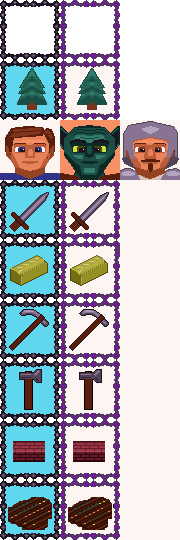
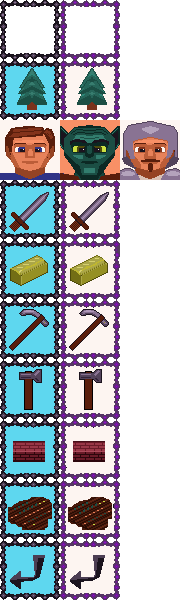
WIP on User Interface

diff --git a/js/userInterface.js b/js/userInterface.js
@@ -5,6 +5,7 @@ var goldX = 10, goldY = 380;
 var farmX = 10, farmY = 480;
 var wallX = 10, wallY = 120;
 var farmBuildX = 10, farmBuildY = 200;
+var peasantMainMenuX = 10, peasantMainMenuY = 300;
 var pictureWidth = 60, pictureHeight = 60;
 
 var peasantSelected = false, warriorSelected = false;
@@ -17,6 +18,7 @@ var goldButtonHovering = false, goldButtonSelected = false;
 var buildWallHovering = false, buildWallSelected = false;
 var farmBuildHovering = false, farmBuildSelected = false;
 var farmButtonHovering = false, farmButtonSelected = false;
+var peasantReturnMenuHovering = false, peasantReturnMenuSelected = false;
 
 var buttonDelayTicks = 10, buttonDelayTimer = false, startDelayTimer = false;
 var showWallToBuild = false, showFarmToBuild = false;
@@ -46,6 +48,7 @@ function lumberAction() {
     selectedUnits[i].actionSx = 0;
     selectedUnits[i].showAction = true;
   }
+  selectedUnits = [];
 }
 
 function attackAction() {
@@ -53,6 +56,7 @@ function attackAction() {
     selectedUnits[i].actionSx = 15 * 1;
     selectedUnits[i].showAction = true;
   }
+  selectedUnits = [];
 }
 
 function goldAction() {
@@ -62,6 +66,8 @@ function goldAction() {
     selectedUnits[i].actionSx = 15 * 2;
     selectedUnits[i].showAction = true;
   }
+  selectedUnits = [];
+
 }
 
 function farmAction() {
@@ -71,6 +77,7 @@ function farmAction() {
     selectedUnits[i].actionSx = 15 * 3;
     selectedUnits[i].showAction = true;
   }
+  selectedUnits = [];
 }
 
 // Construction-related actions
@@ -107,6 +114,13 @@ function placeFarm() {
   }
 }
 
+function returnToPeasantMainMenu(){
+  if(peasantSelected && peasantReturnMenuSelected){
+    peasantConstructionMenu = false;
+    peasantMainMenu = true;
+  }
+}
+
 function checkButtonHandling(){
   if (peasantSelected && peasantMainMenu) {
     lumberButtonHovering = checkMouseInsideBox(lumberX, lumberY, pictureWidth, pictureHeight);
@@ -121,6 +135,17 @@ function checkButtonHandling(){
     handleButtonClick(mouseClicked, farmButtonHovering, farmButtonSelected, farmAction);
     handleButtonClick(mouseClicked, constructionButtonHovering, constructionButtonSelected, constructionAction);
   }
+
+  if (peasantSelected && peasantConstructionMenu) {
+    buildWallHovering = checkMouseInsideBox(wallX, wallY, pictureWidth, pictureHeight);
+    farmBuildHovering = checkMouseInsideBox(farmBuildX, farmBuildY, pictureWidth, pictureHeight);
+    peasantReturnMenuHovering = checkMouseInsideBox(peasantMainMenuX, peasantMainMenuY, pictureWidth, pictureHeight);
+
+    handleButtonClick(mouseClicked, buildWallHovering, buildWallSelected, placeWall);
+    handleButtonClick(mouseClicked, farmBuildHovering, farmBuildSelected, placeFarm);
+    handleButtonClick(mouseClicked, peasantReturnMenuHovering, peasantReturnMenuSelected, returnToPeasantMainMenu);
+  }
+
 }
 
 function drawButton(x, y, image, sY,text1, text2, hovering, selected) {
@@ -174,5 +199,6 @@ function drawUserInterface() {
 
     drawButton(wallX, wallY, userInterfacePic, 420, "BUILD", "WALL", buildWallHovering, buildWallSelected);
     drawButton(farmBuildX, farmBuildY, userInterfacePic, 480, "BUILD", "FARM", farmBuildHovering, farmBuildSelected);
+    drawButton(peasantMainMenuX, peasantMainMenuY, userInterfacePic, 540, "BACK TO", "MAIN MENU", peasantReturnMenuHovering, peasantReturnMenuSelected);
   }
 }
